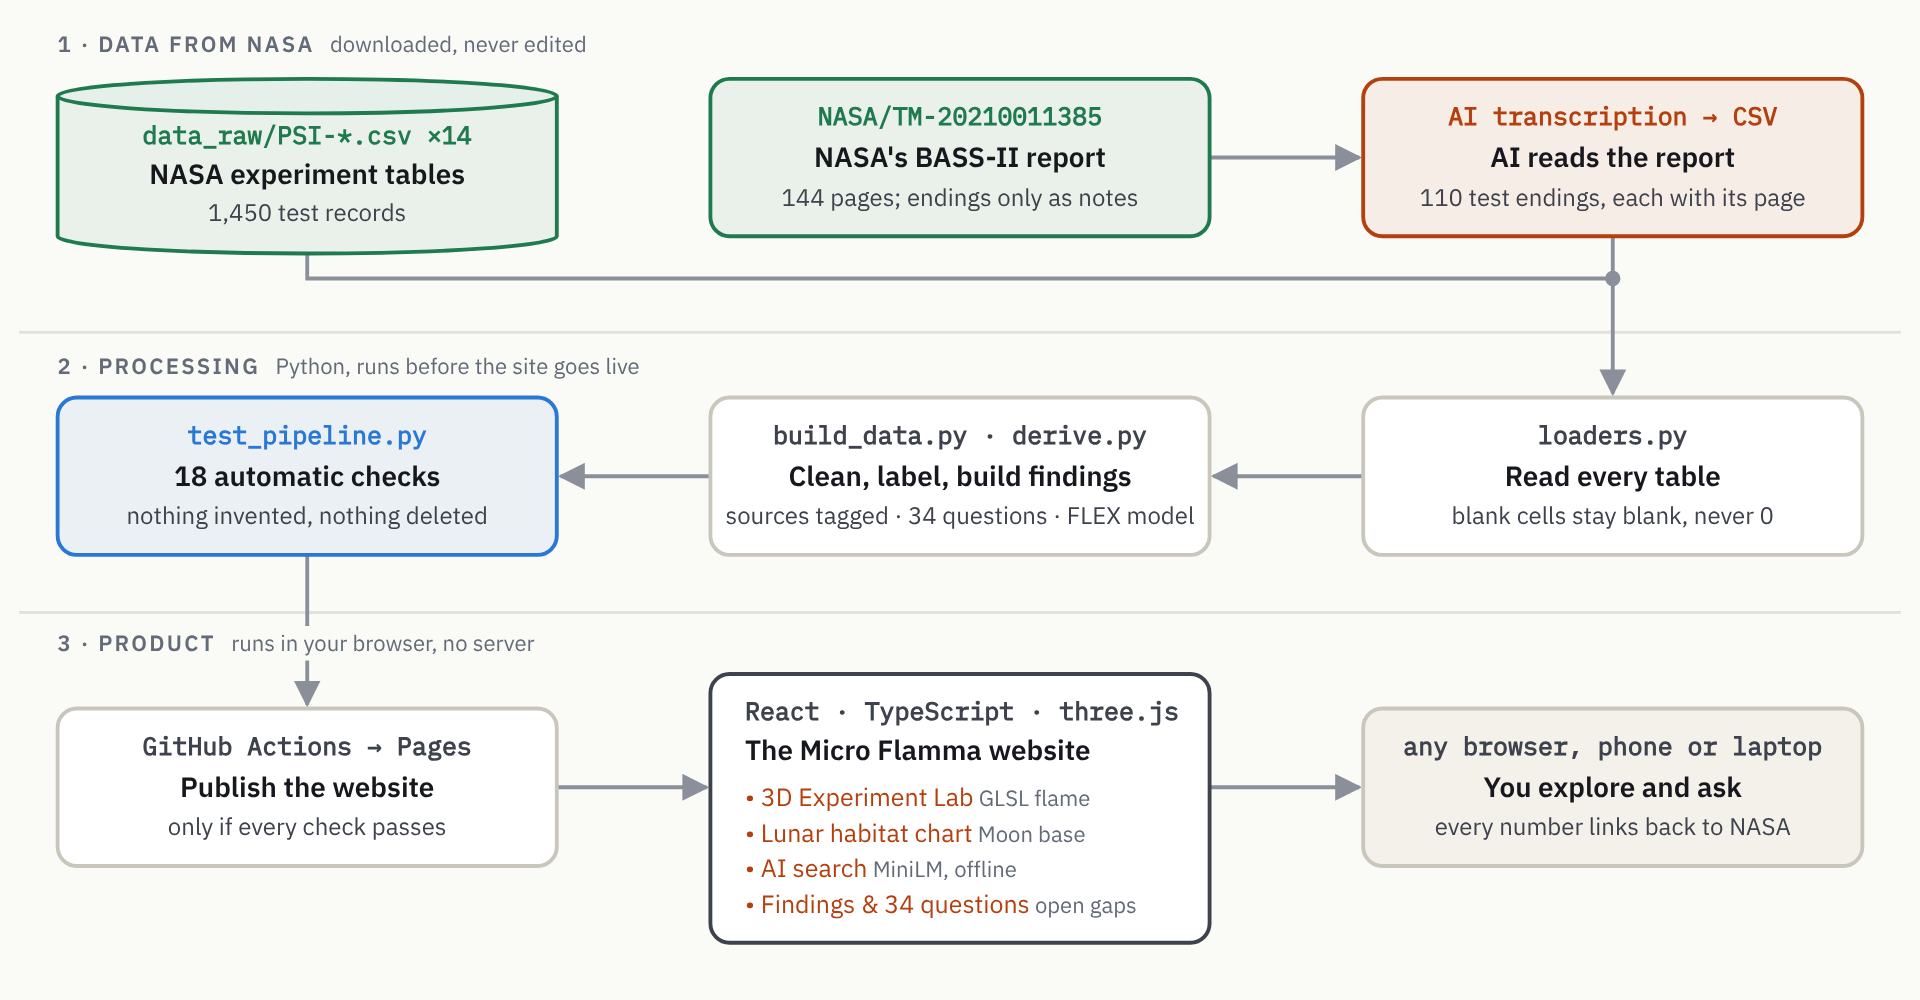
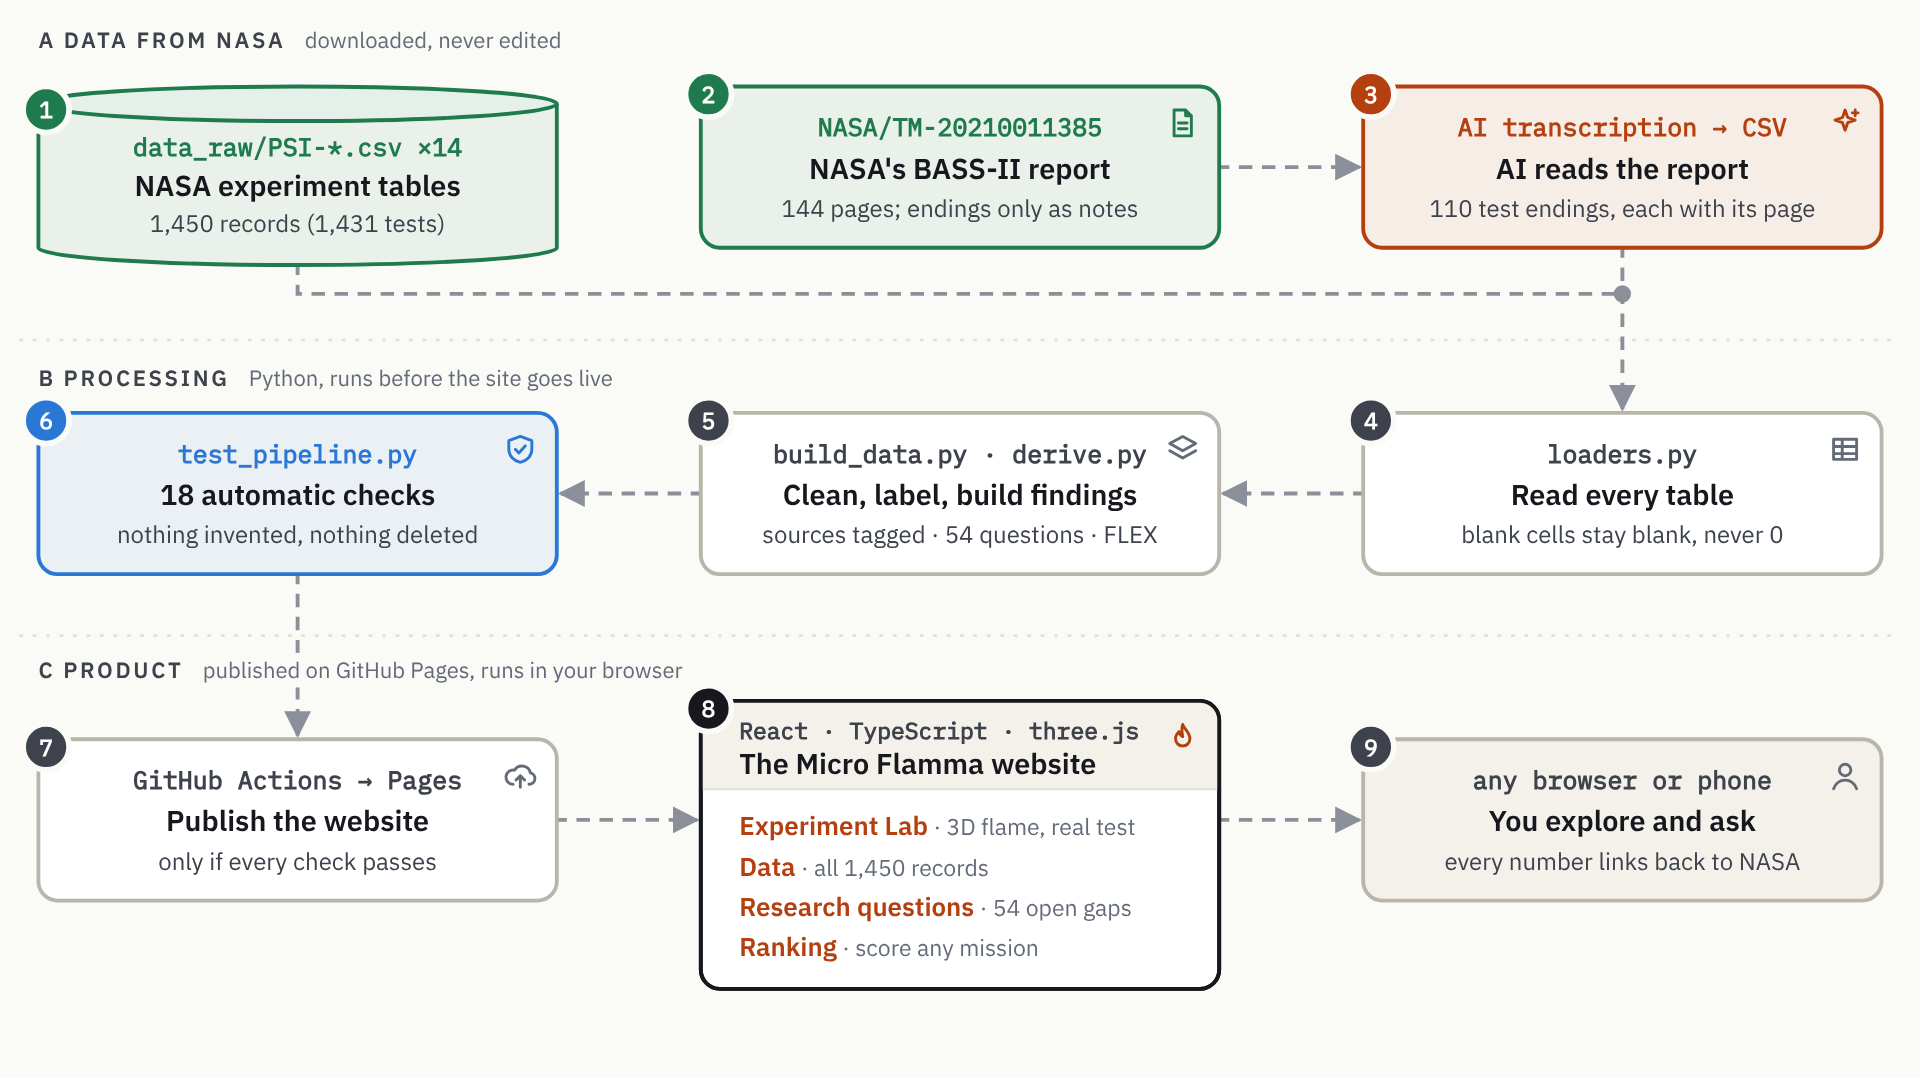
Flowchart with personality; main four pages first in the menu
- Menu order: Experiment Lab, Data, Research questions, Ranking first,
  then Lunar habitat, Findings, AI search, Pipeline, About
- Flowchart: numbered steps, an icon per box, gently flowing arrows
  (off with reduced motion); the website box lists the four main parts
  in menu order and links to them
- Fixes: lane C label (publishing happens on GitHub, use in the
  browser), records shown as 1,450 (1,431 tests), question count is
  the full 54 in strict mode too
- docs/how-it-works.png re-exported

Claude-Session: https://claude.ai/code/session_0111r3pcy9UKQBoNb2MKrVSU

diff --git a/src/components/HowItWorks.tsx b/src/components/HowItWorks.tsx
@@ -3,99 +3,143 @@
 // =============================================================================
 //  The whole system as a drawn flowchart in three lanes:
 //    data from NASA  ->  processing (before the site goes live)  ->  product
-//  Each box has the technical name (the real file or tool) and, under it,
-//  the same step in plain words, so judges and non-specialists can both
-//  follow it. Row 1 runs left to right, row 2 back right to left, row 3 left
-//  to right, so the arrows read as one path. Numbers come from the live data.
-//  On phones the drawing keeps its size and scrolls sideways.
+//  Each box has a step number, an icon, the technical name (the real file or
+//  tool) and, under it, the same step in plain words, so judges and
+//  non-specialists can both follow it. Row 1 runs left to right, row 2 back
+//  right to left, row 3 left to right, so the arrows read as one path; they
+//  flow gently (switched off for people who turn off motion).
+//  Numbers come from the live data. On phones the drawing keeps its size and
+//  scrolls sideways so the text stays readable.
 // =============================================================================
 
+import type { ReactNode } from 'react'
 import type { Dataset } from '../data'
 
 // Site colours (tailwind.config.js) plus the chart green and blue used elsewhere.
-const C = { ink: '#16181D', ink2: '#3D424C', mute: '#646B78', rule: '#E3E1DA', line: '#8A8F99', accent: '#B5400F', nasa: '#1F7A4D', check: '#2A78D6', wash: '#F3F1EA' }
-type Kind = 'nasa' | 'ai' | 'check' | 'code' | 'user'
+const C = { ink: '#16181D', ink2: '#3D424C', mute: '#646B78', rule: '#E3E1DA', line: '#8A8F99', accent: '#B5400F', nasa: '#1F7A4D', check: '#2A78D6', wash: '#F3F1EA', paper: '#FAFAF7' }
+type Kind = 'nasa' | 'ai' | 'check' | 'code' | 'site' | 'user'
 const STYLE: Record<Kind, { fill: string; stroke: string; tech: string }> = {
   nasa: { fill: '#1F7A4D12', stroke: C.nasa, tech: C.nasa },
   ai: { fill: '#B5400F12', stroke: C.accent, tech: C.accent },
   check: { fill: '#2A78D612', stroke: C.check, tech: C.check },
-  code: { fill: '#FFFFFF', stroke: '#C9C6BC', tech: C.ink2 },
-  user: { fill: C.wash, stroke: '#C9C6BC', tech: C.ink2 },
+  code: { fill: '#FFFFFF', stroke: '#B9B5AA', tech: C.ink2 },
+  site: { fill: '#FFFFFF', stroke: C.ink, tech: C.ink2 },
+  user: { fill: C.wash, stroke: '#B9B5AA', tech: C.ink2 },
 }
 const MONO = '"IBM Plex Mono", ui-monospace, monospace'
 
-const W = 260, H = 82                 // standard box
-const X = [30, 370, 710]              // three columns (viewBox is 1000 wide)
+// Small line icons (24 x 24 grid), one per step.
+const ICON: Record<string, string> = {
+  report: 'M6 3h8l4 4v14H6z M14 3v4h4 M9 12h6 M9 16h6',
+  ai: 'M12 3l1.8 5.2L19 10l-5.2 1.8L12 17l-1.8-5.2L5 10l5.2-1.8z M19 3v4 M17 5h4',
+  table: 'M4 5h16v14H4z M4 10h16 M4 15h16 M10 5v14',
+  layers: 'M12 3l9 5-9 5-9-5z M3 13l9 5 9-5',
+  shield: 'M12 3l8 3v6c0 4.5-3.4 8-8 9-4.6-1-8-4.5-8-9V6z M8.5 12l2.5 2.5 4.5-5',
+  upload: 'M7 18a5 5 0 1 1 1-9.9A6 6 0 0 1 19 10a4 4 0 0 1-1 7.9 M12 12v8 M9 15l3-3 3 3',
+  browser: 'M3 5h18v14H3z M3 9h18 M6 7h.01 M9 7h.01',
+  person: 'M12 12a4 4 0 1 0 0-8 4 4 0 0 0 0 8z M4 21c1.5-4 4.5-6 8-6s6.5 2 8 6',
+  flame: 'M12 3c1 3.5 5 5.5 5 10a5 5 0 0 1-10 0c0-2.5 1.5-4 2.5-5 .3 2 1.3 3 2.5 3.5C11.5 9 11 6 12 3z',
+}
+
+const W = 270, H = 84                 // standard box
+const X = [20, 365, 710]              // three columns (viewBox is 1000 wide)
 const cx = (i: number) => X[i] + W / 2
 
-/** tech: the real file or tool. plain: what it does, in everyday words. detail: one fact. */
-function Box({ col, y, kind, tech, plain, detail }: { col: number; y: number; kind: Kind; tech: string; plain: string; detail: string }) {
+function Icon({ x, y, name, color }: { x: number; y: number; name: string; color: string }) {
+  return <path d={ICON[name]} transform={`translate(${x} ${y}) scale(0.75)`} fill="none" stroke={color} strokeWidth={2} strokeLinecap="round" strokeLinejoin="round" />
+}
+
+/** Step number on the box's top-left corner: the order the data travels in. */
+function Badge({ x, y, n, color }: { x: number; y: number; n: number; color: string }) {
+  return (
+    <g>
+      <circle cx={x} cy={y} r={12} fill={color} stroke={C.paper} strokeWidth={3} />
+      <text x={x} y={y + 4.5} textAnchor="middle" fontSize={12} fontWeight={700} fontFamily={MONO} fill="#FFFFFF">{n}</text>
+    </g>
+  )
+}
+
+/** tech: the real file or tool. plain: what it does in everyday words. detail: one fact. */
+function Box({ col, y, kind, n, icon, tech, plain, detail }: { col: number; y: number; kind: Kind; n: number; icon: string; tech: string; plain: string; detail: string }) {
   const s = STYLE[kind]
   return (
     <g>
       <rect x={X[col]} y={y} width={W} height={H} rx={10} fill={s.fill} stroke={s.stroke} strokeWidth={2} />
-      <text x={cx(col)} y={y + 24} textAnchor="middle" fontSize={13} fontWeight={600} fontFamily={MONO} fill={s.tech}>{tech}</text>
-      <text x={cx(col)} y={y + 46} textAnchor="middle" fontSize={14.5} fontWeight={600} fill={C.ink}>{plain}</text>
-      <text x={cx(col)} y={y + 66} textAnchor="middle" fontSize={12.5} fill={C.ink2}>{detail}</text>
+      <Icon x={X[col] + W - 28} y={y + 10} name={icon} color={s.stroke === '#B9B5AA' ? C.mute : s.stroke} />
+      <text x={cx(col)} y={y + 26} textAnchor="middle" fontSize={13} fontWeight={600} fontFamily={MONO} fill={s.tech}>{tech}</text>
+      <text x={cx(col)} y={y + 48} textAnchor="middle" fontSize={15} fontWeight={600} fill={C.ink}>{plain}</text>
+      <text x={cx(col)} y={y + 68} textAnchor="middle" fontSize={12.5} fill={C.ink2}>{detail}</text>
+      <Badge x={X[col] + 4} y={y + 4} n={n} color={s.stroke === '#B9B5AA' ? C.ink2 : s.stroke} />
     </g>
   )
 }
 
 /** NASA's data store, drawn as a database cylinder. */
-function Cylinder({ col, y, tech, plain, detail }: { col: number; y: number; tech: string; plain: string; detail: string }) {
+function Cylinder({ col, y, n, tech, plain, detail }: { col: number; y: number; n: number; tech: string; plain: string; detail: string }) {
   const x = X[col], ry = 9
   return (
     <g>
       <path d={`M${x},${y + ry} v${H - ry} a${W / 2},${ry} 0 0 0 ${W},0 v-${H - ry}`} fill={STYLE.nasa.fill} stroke={C.nasa} strokeWidth={2} />
       <ellipse cx={cx(col)} cy={y + ry} rx={W / 2} ry={ry} fill="#E6F0EA" stroke={C.nasa} strokeWidth={2} />
-      <text x={cx(col)} y={y + 34} textAnchor="middle" fontSize={13} fontWeight={600} fontFamily={MONO} fill={C.nasa}>{tech}</text>
-      <text x={cx(col)} y={y + 55} textAnchor="middle" fontSize={14.5} fontWeight={600} fill={C.ink}>{plain}</text>
-      <text x={cx(col)} y={y + 74} textAnchor="middle" fontSize={12.5} fill={C.ink2}>{detail}</text>
+      <text x={cx(col)} y={y + 36} textAnchor="middle" fontSize={13} fontWeight={600} fontFamily={MONO} fill={C.nasa}>{tech}</text>
+      <text x={cx(col)} y={y + 57} textAnchor="middle" fontSize={15} fontWeight={600} fill={C.ink}>{plain}</text>
+      <text x={cx(col)} y={y + 76} textAnchor="middle" fontSize={12.5} fill={C.ink2}>{detail}</text>
+      <Badge x={x + 4} y={y + 12} n={n} color={C.nasa} />
     </g>
   )
 }
 
 /** Lane title. The paper-coloured strip behind it lets a connector pass under the words. */
-const Lane = ({ y, n, label, note }: { y: number; n: number; label: string; note: string }) => (
+const Lane = ({ y, n, label, note }: { y: number; n: string; label: string; note: string }) => (
   <g>
-    <rect x={X[0] - 6} y={y - 13} width={360} height={18} fill="#FAFAF7" />
+    <rect x={X[0] - 6} y={y - 13} width={430} height={18} fill={C.paper} />
     <text x={X[0]} y={y} fontSize={11.5} fill={C.mute}>
-      <tspan fontWeight={700} letterSpacing={1.2}>{n} · {label}</tspan><tspan dx={8}>{note}</tspan>
+      <tspan fontWeight={700} letterSpacing={1.4} fill={C.ink2}>{n}  {label}</tspan><tspan dx={10}>{note}</tspan>
     </text>
   </g>
 )
-const Rule = ({ y }: { y: number }) => <line x1={10} x2={990} y1={y} y2={y} stroke={C.rule} strokeWidth={1.5} />
+const Rule = ({ y }: { y: number }) => <line x1={10} x2={990} y1={y} y2={y} stroke={C.rule} strokeWidth={1.5} strokeDasharray="2 5" />
 
 export default function HowItWorks({ data }: { data: Dataset }) {
   const bc = data.findings.bass2_counts
-  const nq = data.findings.research_questions.length
-  const r1 = 40, r2 = 206, r3 = 368          // tops of the three rows
+  // The full count, also in strict mode (where questions citing NASA reports are hidden).
+  const nq = data.findings.research_questions.length + (data.findings.research_questions_hidden ?? 0)
+  const nTests = data.tests.filter((t) => !t.is_note && !t.is_flow_vis).length
+  const r1 = 44, r2 = 214, r3 = 384          // tops of the three rows
   const mid = (y: number) => y + H / 2
-  const join = r1 + H + 22                    // where NASA tables and AI output meet
-  const site = { x: X[1], y: r3 - 18, w: W, h: 140 }
+  const join = r1 + H + 24                    // where NASA tables and AI output meet
+  const site = { x: X[1], y: r3 - 20, w: W, h: 150 }
+  // The four main parts of the site, in the menu's order.
   const outs: [string, string, string][] = [
-    ['#/lab', '3D Experiment Lab', 'GLSL flame'],
-    ['#/habitat', 'Lunar habitat chart', 'Moon base'],
-    ['#/search', 'AI search', 'MiniLM, offline'],
-    ['#/findings', `Findings & ${nq} questions`, 'open gaps'],
+    ['#/lab', 'Experiment Lab', '3D flame, real test'],
+    ['#/data', 'Data', `all ${data.tests.length.toLocaleString()} records`],
+    ['#/questions', 'Research questions', `${nq} open gaps`],
+    ['#/ranking', 'Ranking', 'score any mission'],
   ]
+  const flow = (d: ReactNode) => <g className="hiw-flow" stroke={C.line} strokeWidth={2} fill="none">{d}</g>
 
   return (
     <div className="grid gap-3">
       <div className="overflow-x-auto">
-        <svg viewBox="0 0 1000 520" className="w-full min-w-[760px] h-auto font-sans" role="img"
-             aria-label={`Flowchart. Data from NASA: ${data.tests.length} records in 14 PSI tables and the BASS-II report, which AI reads into ${bc.endings_report} test endings. Processing in Python: loaders read every table, build_data and derive clean the data and build the findings, 18 automatic checks. Product: GitHub Actions publishes a React and three.js website with a 3D lab, lunar habitat chart, AI search and findings, used in the browser.`}>
+        <svg viewBox="0 0 1000 560" className="w-full min-w-[760px] h-auto font-sans" role="img"
+             aria-label={`Flowchart in nine steps. Data from NASA: 1. the 14 PSI tables (${data.tests.length} records) and 2. NASA's BASS-II report, which 3. AI reads into ${bc.endings_report} test endings. Processing in Python: 4. loaders.py reads every table, 5. build_data.py and derive.py clean the data and build the findings, 6. test_pipeline.py runs 18 automatic checks. Product: 7. GitHub Actions publishes 8. the website (Experiment Lab, Data, Research questions, Ranking), which 9. you use in your browser.`}>
           <defs>
             <marker id="hiw-arrow" viewBox="0 0 10 10" refX={9} refY={5} markerWidth={7} markerHeight={7} orient="auto-start-reverse">
               <path d="M0,0 L10,5 L0,10 z" fill={C.line} />
             </marker>
           </defs>
+          <style>{`
+            .hiw-flow line, .hiw-flow polyline { stroke-dasharray: 7 5; animation: hiw-dash 1.6s linear infinite }
+            @keyframes hiw-dash { to { stroke-dashoffset: -24 } }
+            @media (prefers-reduced-motion: reduce) { .hiw-flow line, .hiw-flow polyline { animation: none } }
+            .hiw-link:hover text tspan:first-child { text-decoration: underline }
+          `}</style>
 
-          <Rule y={r2 - 34} />
-          <Rule y={r3 - 50} />
+          <Rule y={r2 - 38} />
+          <Rule y={r3 - 54} />
 
           {/* connectors, drawn first so the boxes sit on top */}
-          <g stroke={C.line} strokeWidth={2} fill="none">
+          {flow(<>
             <line x1={X[1] + W} y1={mid(r1)} x2={X[2] - 2} y2={mid(r1)} markerEnd="url(#hiw-arrow)" />
             <polyline points={`${cx(0)},${r1 + H + 9} ${cx(0)},${join} ${cx(2)},${join}`} />
             <line x1={cx(2)} y1={r1 + H} x2={cx(2)} y2={join} />
@@ -105,39 +149,45 @@ export default function HowItWorks({ data }: { data: Dataset }) {
             <line x1={cx(0)} y1={r2 + H} x2={cx(0)} y2={r3 - 2} markerEnd="url(#hiw-arrow)" />
             <line x1={X[0] + W} y1={mid(r3)} x2={site.x - 2} y2={mid(r3)} markerEnd="url(#hiw-arrow)" />
             <line x1={site.x + site.w} y1={mid(r3)} x2={X[2] - 2} y2={mid(r3)} markerEnd="url(#hiw-arrow)" />
-          </g>
-          <circle cx={cx(2)} cy={join} r={4} fill={C.line} />
+          </>)}
+          <circle cx={cx(2)} cy={join} r={4.5} fill={C.line} />
 
           {/* lane titles, after the connectors so the line passes under them */}
-          <Lane y={26} n={1} label="DATA FROM NASA" note="downloaded, never edited" />
-          <Lane y={r2 - 12} n={2} label="PROCESSING" note="Python, runs before the site goes live" />
-          <Lane y={r3 - 30} n={3} label="PRODUCT" note="runs in your browser, no server" />
+          <Lane y={24} n="A" label="DATA FROM NASA" note="downloaded, never edited" />
+          <Lane y={r2 - 14} n="B" label="PROCESSING" note="Python, runs before the site goes live" />
+          <Lane y={r3 - 32} n="C" label="PRODUCT" note="published on GitHub Pages, runs in your browser" />
 
           {/* row 1: data from NASA, left to right */}
-          <Cylinder col={0} y={r1} tech="data_raw/PSI-*.csv  ×14" plain="NASA experiment tables" detail={`${data.tests.length.toLocaleString()} test records`} />
-          <Box col={1} y={r1} kind="nasa" tech="NASA/TM-20210011385" plain="NASA's BASS-II report" detail="144 pages; endings only as notes" />
-          <Box col={2} y={r1} kind="ai" tech="AI transcription → CSV" plain="AI reads the report" detail={`${bc.endings_report} test endings, each with its page`} />
+          <Cylinder col={0} y={r1} n={1} tech="data_raw/PSI-*.csv  ×14" plain="NASA experiment tables" detail={`${data.tests.length.toLocaleString()} records (${nTests.toLocaleString()} tests)`} />
+          <Box col={1} y={r1} kind="nasa" n={2} icon="report" tech="NASA/TM-20210011385" plain="NASA's BASS-II report" detail="144 pages; endings only as notes" />
+          <Box col={2} y={r1} kind="ai" n={3} icon="ai" tech="AI transcription → CSV" plain="AI reads the report" detail={`${bc.endings_report} test endings, each with its page`} />
 
           {/* row 2: processing, right to left */}
-          <Box col={2} y={r2} kind="code" tech="loaders.py" plain="Read every table" detail="blank cells stay blank, never 0" />
-          <Box col={1} y={r2} kind="code" tech="build_data.py · derive.py" plain="Clean, label, build findings" detail={`sources tagged · ${nq} questions · FLEX model`} />
-          <Box col={0} y={r2} kind="check" tech="test_pipeline.py" plain="18 automatic checks" detail="nothing invented, nothing deleted" />
+          <Box col={2} y={r2} kind="code" n={4} icon="table" tech="loaders.py" plain="Read every table" detail="blank cells stay blank, never 0" />
+          <Box col={1} y={r2} kind="code" n={5} icon="layers" tech="build_data.py · derive.py" plain="Clean, label, build findings" detail={`sources tagged · ${nq} questions · FLEX`} />
+          <Box col={0} y={r2} kind="check" n={6} icon="shield" tech="test_pipeline.py" plain="18 automatic checks" detail="nothing invented, nothing deleted" />
 
           {/* row 3: product, left to right */}
-          <Box col={0} y={r3} kind="code" tech="GitHub Actions → Pages" plain="Publish the website" detail="only if every check passes" />
+          <Box col={0} y={r3} kind="code" n={7} icon="upload" tech="GitHub Actions → Pages" plain="Publish the website" detail="only if every check passes" />
           <g>
-            <rect x={site.x} y={site.y} width={site.w} height={site.h} rx={10} fill="#FFFFFF" stroke={C.ink2} strokeWidth={2} />
-            <text x={site.x + 18} y={site.y + 24} fontSize={13} fontWeight={600} fontFamily={MONO} fill={C.ink2}>React · TypeScript · three.js</text>
-            <text x={site.x + 18} y={site.y + 45} fontSize={14.5} fontWeight={600} fill={C.ink}>The Micro Flamma website</text>
-            {outs.map(([href, label, tech], i) => (
-              <a key={href} href={href}>
-                <text x={site.x + 18} y={site.y + 69 + i * 18.5} fontSize={13}>
-                  <tspan fill={C.accent}>• {label}</tspan><tspan fill={C.mute} fontSize={11.5}>  {tech}</tspan>
+            <rect x={site.x} y={site.y} width={site.w} height={site.h} rx={10} fill="#FFFFFF" stroke={C.ink} strokeWidth={2} />
+            <rect x={site.x} y={site.y} width={site.w} height={46} rx={10} fill={C.wash} />
+            <rect x={site.x} y={site.y + 36} width={site.w} height={10} fill={C.wash} />
+            <line x1={site.x} x2={site.x + site.w} y1={site.y + 46} y2={site.y + 46} stroke={C.rule} />
+            <rect x={site.x} y={site.y} width={site.w} height={site.h} rx={10} fill="none" stroke={C.ink} strokeWidth={2} />
+            <Icon x={site.x + site.w - 28} y={site.y + 10} name="flame" color={C.accent} />
+            <text x={site.x + 20} y={site.y + 20} fontSize={12} fontWeight={600} fontFamily={MONO} fill={C.ink2}>React · TypeScript · three.js</text>
+            <text x={site.x + 20} y={site.y + 38} fontSize={15} fontWeight={600} fill={C.ink}>The Micro Flamma website</text>
+            {outs.map(([href, label, note], i) => (
+              <a key={href} href={href} className="hiw-link">
+                <text x={site.x + 20} y={site.y + 70 + i * 21} fontSize={13.5}>
+                  <tspan fill={C.accent} fontWeight={600}>{label}</tspan><tspan fill={C.mute} fontSize={12}>  ·  {note}</tspan>
                 </text>
               </a>
             ))}
+            <Badge x={site.x + 4} y={site.y + 4} n={8} color={C.ink} />
           </g>
-          <Box col={2} y={r3} kind="user" tech="any browser, phone or laptop" plain="You explore and ask" detail="every number links back to NASA" />
+          <Box col={2} y={r3} kind="user" n={9} icon="person" tech="any browser or phone" plain="You explore and ask" detail="every number links back to NASA" />
         </svg>
       </div>
       <p className="flex flex-wrap gap-x-6 gap-y-1 small text-ink2 border-t border-rule pt-3">

diff --git a/src/App.tsx b/src/App.tsx
@@ -26,15 +26,16 @@ import Questions from './pages/Questions'
 import Pipeline from './pages/Pipeline'
 import About from './pages/About'
 
+// The four main parts come first, so they are one click away on the left.
 const NAV: { id: PageId; label: string }[] = [
-  { id: 'habitat', label: 'Lunar habitat' },
   { id: 'lab', label: 'Experiment Lab' },
   { id: 'data', label: 'Data' },
-  { id: 'findings', label: 'Findings' },
-  { id: 'ranking', label: 'Ranking' },
   { id: 'questions', label: 'Research questions' },
-  { id: 'pipeline', label: 'Pipeline' },
+  { id: 'ranking', label: 'Ranking' },
+  { id: 'habitat', label: 'Lunar habitat' },
+  { id: 'findings', label: 'Findings' },
   { id: 'search', label: 'AI search' },
+  { id: 'pipeline', label: 'Pipeline' },
   { id: 'about', label: 'About' },
 ]
 const PAGES = new Set<string>(['home', ...NAV.map((n) => n.id)])
